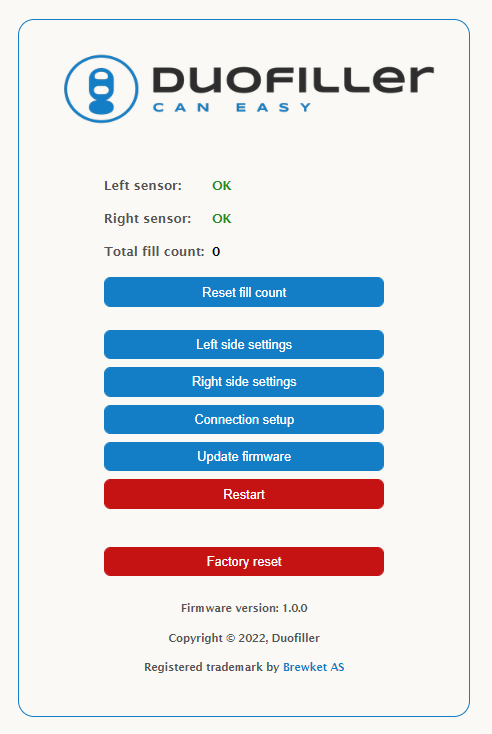
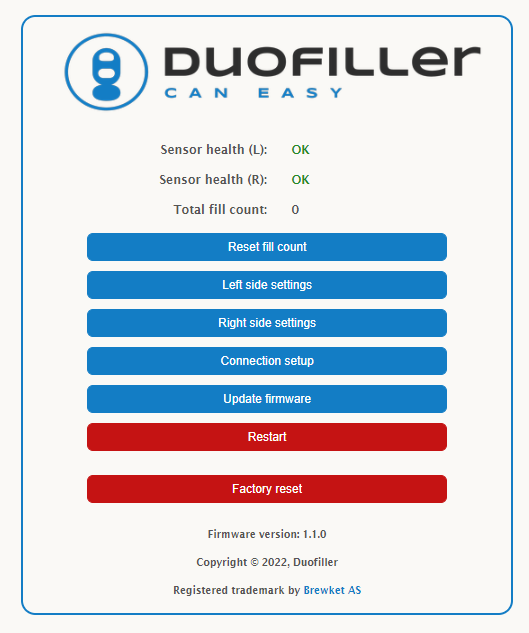
dfg

diff --git a/firmware-upgrade.md b/firmware-upgrade.md
@@ -22,13 +22,13 @@ V1.1 : New top up function, improved web interface to better fit mobile screens,
 <br>
 <br>
 <br>
-<br>
-<br>
-<br>
-<br>
 
 ### How to upgrade
 
-The web interface has an "update firmware" option. Select the firmware file (*.bin file) and press upload. Please never unplug the filler while the firmware upgrade is in progress. When the upgrade is completed it will be indicated by a solid green light in the led indicating that it's back in timer Mode. It's not necessary to reboot the filler after the firmware upgrade.
+First check your current version number at the bottom of the menu page:
+
+![](/static/menu.png)
+
+Go to "Firmware update", select the firmware file (the downloaded *.bin file) and press upload. Please never unplug the filler while the firmware upgrade is in progress. When the upgrade is completed it will be indicated by a solid green light in the led indicating that it's back in timer Mode. It's not necessary to reboot the filler after the firmware upgrade.
 
 ![](/static/firmware.png)
